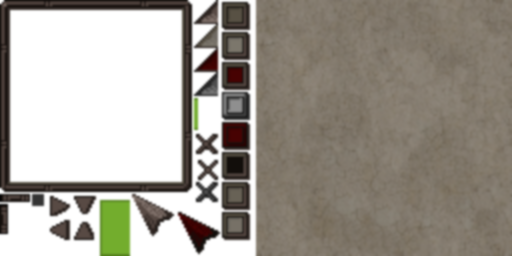
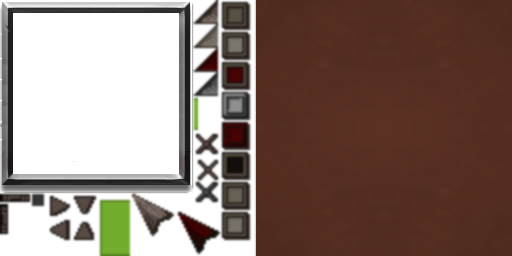
WIP gui fantasy

diff --git a/examples/demo_glium.rs b/examples/demo_glium.rs
@@ -38,11 +38,13 @@ fn main() -> Result<(), Box<dyn std::error::Error>> {
     context_builder.register_theme_from_files(
         &[
             Path::new("examples/data/theme-base.yml"),
+            Path::new("examples/data/theme-fantasy.yml"),
             Path::new("examples/data/theme-demo.yml"),
         ],
         serde_yaml::from_str::<serde_yaml::Value>
     )?;
     context_builder.register_texture_from_file("pixel", Path::new("examples/data/images/gui-pixel.png"));
+    context_builder.register_texture_from_file("fantasy", Path::new("examples/data/images/gui-fantasy.png"));
     context_builder.register_font_from_file("roboto", Path::new("examples/data/fonts/Roboto-Medium.ttf"));
     let mut context = context_builder.build()?;
 

diff --git a/examples/demo_wgpu.rs b/examples/demo_wgpu.rs
@@ -41,11 +41,13 @@ fn main() -> Result<(), Box<dyn std::error::Error>> {
     context_builder.register_theme_from_files(
         &[
             Path::new("examples/data/theme-base.yml"),
+            Path::new("examples/data/theme-fantasy.yml"),
             Path::new("examples/data/theme-demo.yml"),
         ],
         serde_yaml::from_str::<serde_yaml::Value>
     )?;
     context_builder.register_texture_from_file("pixel", Path::new("examples/data/images/gui-pixel.png"));
+    context_builder.register_texture_from_file("fantasy", Path::new("examples/data/images/gui-fantasy.png"));
     context_builder.register_font_from_file("roboto", Path::new("examples/data/fonts/Roboto-Medium.ttf"));
     let mut context = context_builder.build()?;
 
